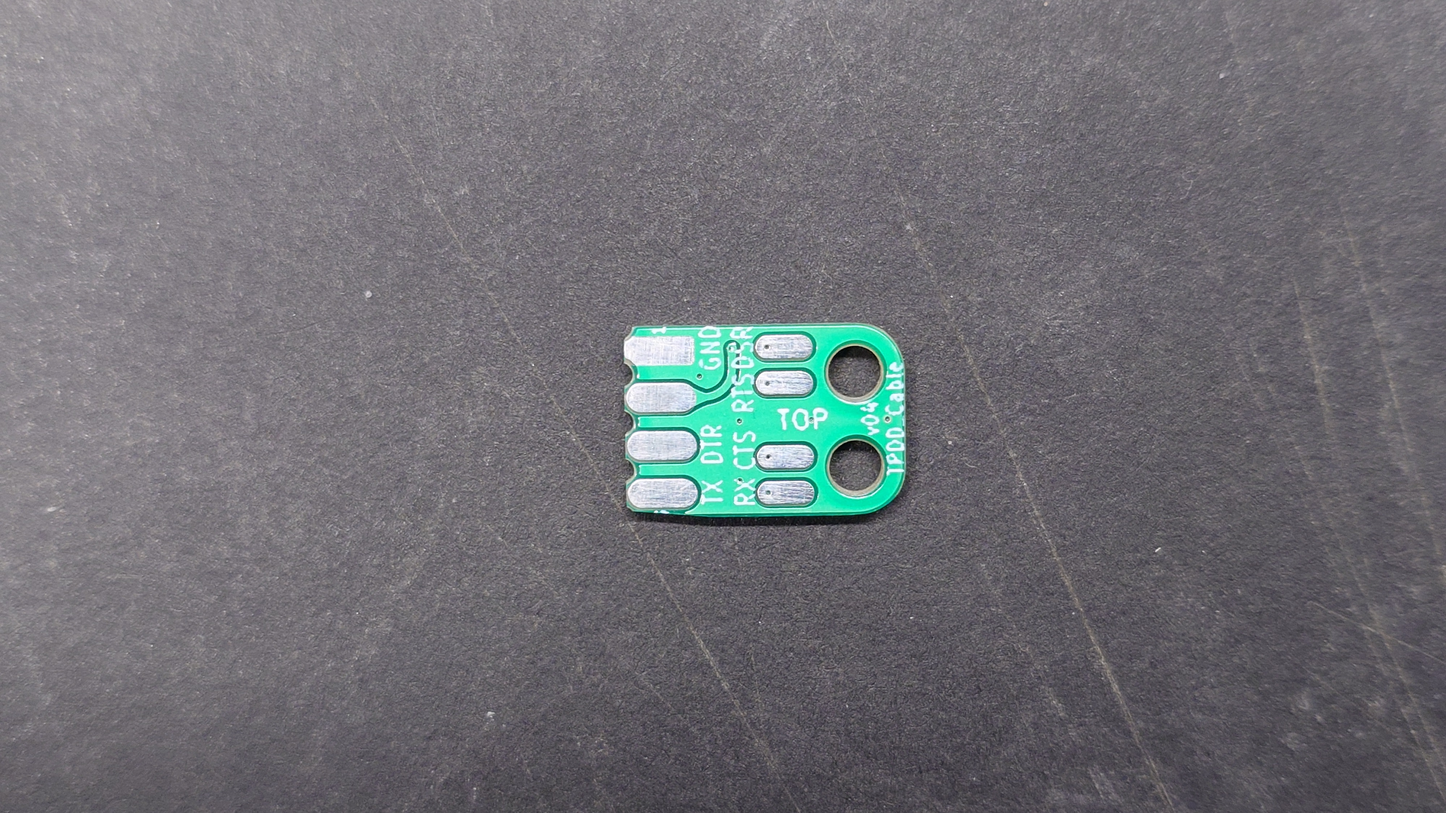
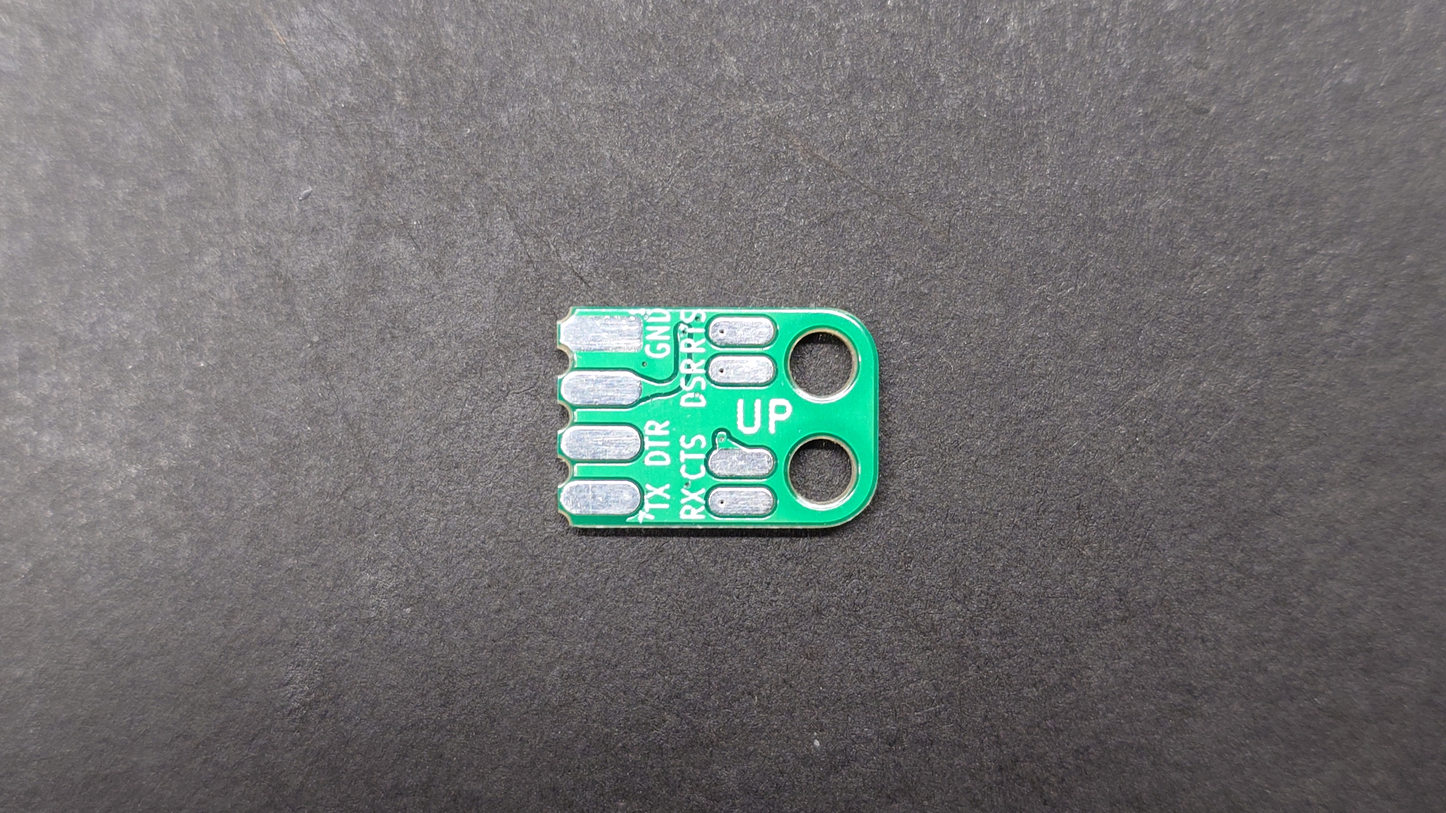
update build pics for v06

diff --git a/build_pics/build_pics.md b/build_pics/build_pics.md
@@ -1,20 +1,15 @@
 ![](0010_pcb.jpg)
 ![](0020_pcb_sanding.jpg)
 ![](0030_pcb_sanded.jpg)
-![](0040_pcb_parts_and_jig.jpg)
-![](0050_pcb_soldering.jpg)
+![](0040_pcb_chamfering.jpg)
+![](0050_pcb_chamfered.jpg)
 ![](0060_pcb_transistors_soldered.jpg)
 ![](0070_pcb_2x4_jig.jpg)
 ![](0080_pcb_2x4_jig.jpg)
 ![](0090_pcb_jig_tack_top.jpg)
-![](0100_pcb_jig_tack_bottom.jpg)
-![](0110_pcb_2x4_tacked_alignment.jpg)
 ![](0120_pcb_soldered_bottom.jpg)
 ![](0130_pcb_soldered_top.jpg)
-![](0140_pcb_chamfer_holes.jpg)
-![](1010_cable_parts.jpg)
 ![](1020_cable_cut.jpg)
-![](1030_cable_tin_tips.jpg)
 ![](1040_cable_tin_tips.jpg)
 ![](1050_cable_map_colors.jpg)
 ![](1060_cable_map_colors.jpg)
@@ -22,20 +17,13 @@
 ![](1080_cable_thread_housing_and_heatshrink_before_solder.jpg)
 ![](1090_cable_solder_first_4.jpg)
 ![](1100_cable_solder_final_3.jpg)
-![](1110_cable_clean_flux.jpg)
-![](1120_cable_soldered.jpg)
-![](1130_cable_heatshrink.jpg)
-![](1140_cable_heatshrink.jpg)
-![](1150_cable_seat_pcb.jpg)
+![](1120_cable_heatshrink.jpg)
 ![](1160_cable_inserted.jpg)
 ![](1210_cable_tie.jpg)
 ![](1220_cable_tie.jpg)
 ![](1230_cable_tie.jpg)
 ![](1240_cable_tie.jpg)
-![](1250_cable_tie.jpg)
-![](1260_cable_tie.jpg)
 ![](1270_cable_tie.jpg)
-![](1280_cable_tie.jpg)
 ![](1290_cable_tie.jpg)
 ![](1500_complete.jpg)
 ![](1540_complete.jpg)
